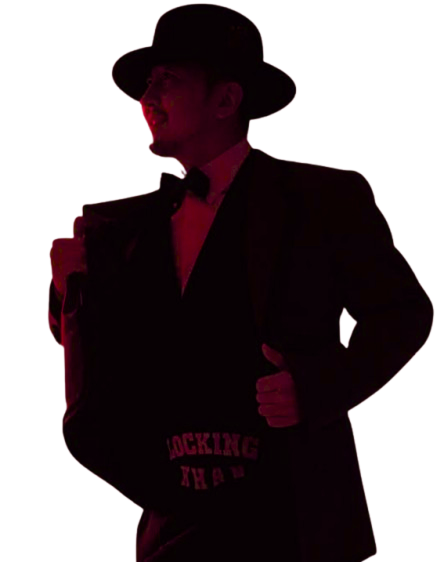
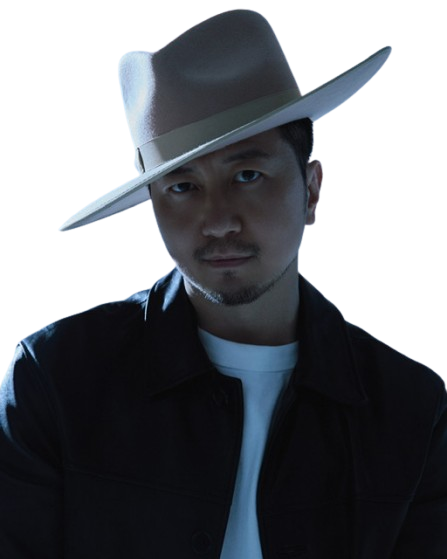
tony gogo

diff --git a/src/data/teachers.ts b/src/data/teachers.ts
@@ -60,4 +60,14 @@ export const teacherData: Teacher[] = [
     subtitle: 'Funkademics',
     desc: 'Manne is one of the first lockers in Sweden to have the fundamentals right. He was first what many call a self-taught dancer, but later learned the artform of locking from the pioneers. He has been teaching locking for a long time and is well known on the scene. He has been in numerous productions, taught at many of Sweden’s top schools and battled in numerous competitions. He has always been dedicated to locking and has a lot to share with the community.',
   },
+   {
+    id: 6,
+    slug: 'tony-gogo',
+    name: 'Tony Gogo',
+    country: 'US',
+    img: '/teachers/t6.png',
+    title: 'Tony Gogo',
+    subtitle: 'The Gogo Brothers',
+    desc: 'Tony “Go-Go” Lewis is an original locking pioneer from the United States and one of the early members of The Go-Go Brothers, a legendary crew connected to the foundation of locking culture. He also performed with The Lockers, the iconic group that helped bring locking to the world stage in the 1970s. Now based in Japan, Tony has played a major role in spreading and teaching locking internationally, inspiring generations of dancers with his funk, groove, history, and original style. His legacy continues through his teaching, his influence on Japanese locking culture, and the next generation of Go-Go Brothers',
+  },
 ];

diff --git a/src/app/_components/Hero.module.scss b/src/app/_components/Hero.module.scss
@@ -136,7 +136,7 @@
 
 .imageArea {
   position: relative;
-  z-index: 3;
+  z-index: 1;
 
   width: 100%;
   max-width: 100%;
@@ -150,14 +150,15 @@
 .imageWrapper {
   position: relative;
   width: 100%;
-  height: clamp(360px, 52vw, 590px);
+  height: clamp(400px, 52vw, 600px);
+  margin-bottom: 4rem;
 }
 
 .heroImage {
   object-fit: contain;
   object-position: bottom center;
   filter: grayscale(1) contrast(1.25);
-  opacity: 0.8;
+  opacity: 0.4;
 }
 
 .bottomContent {
